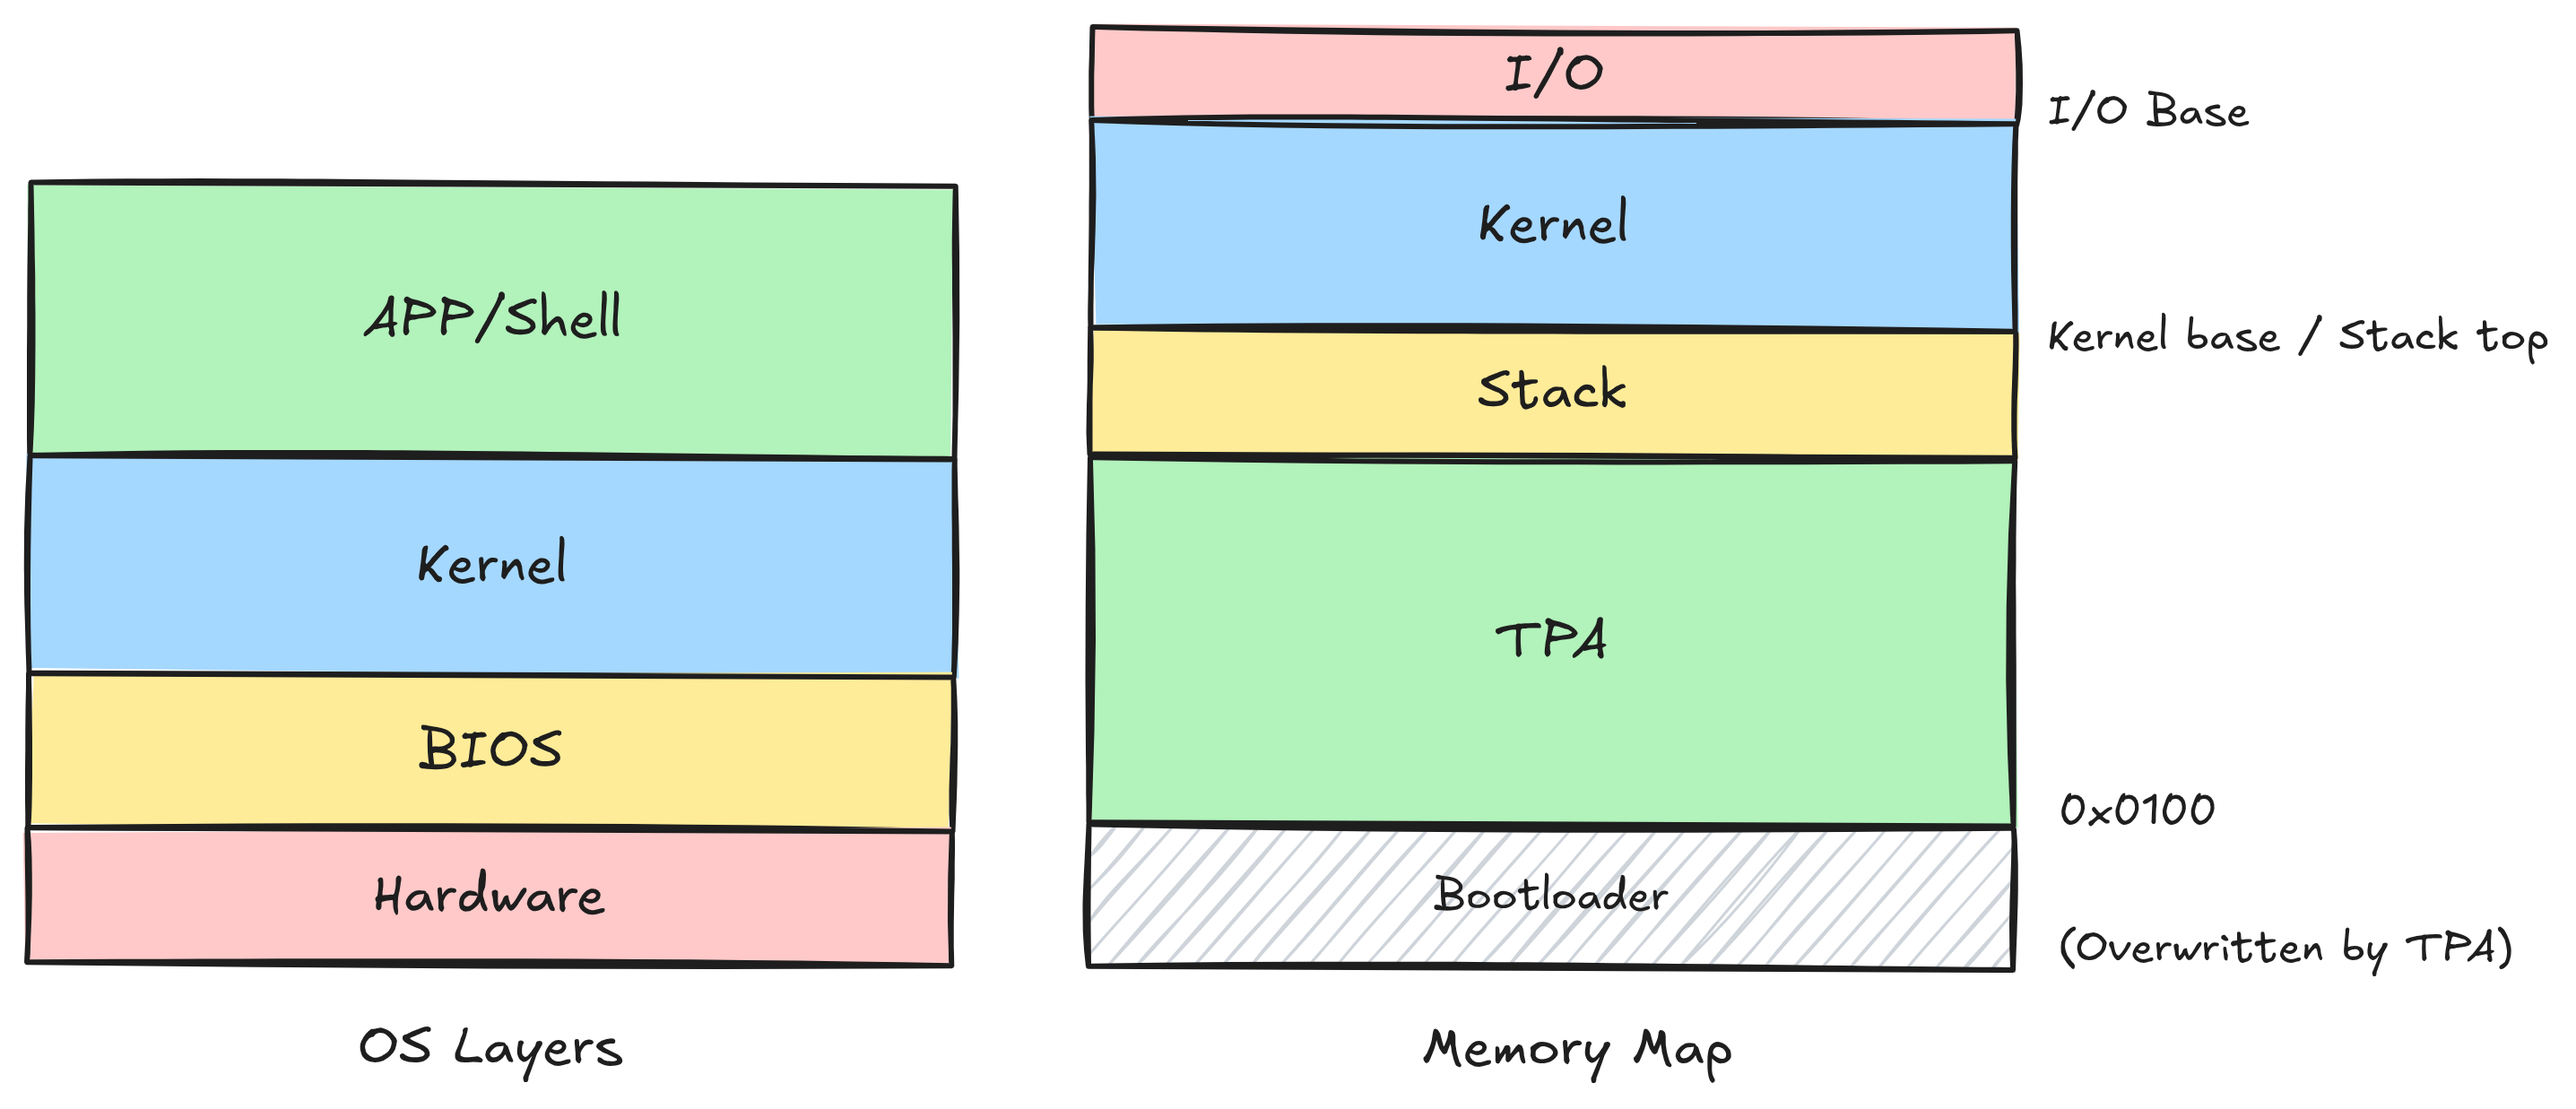
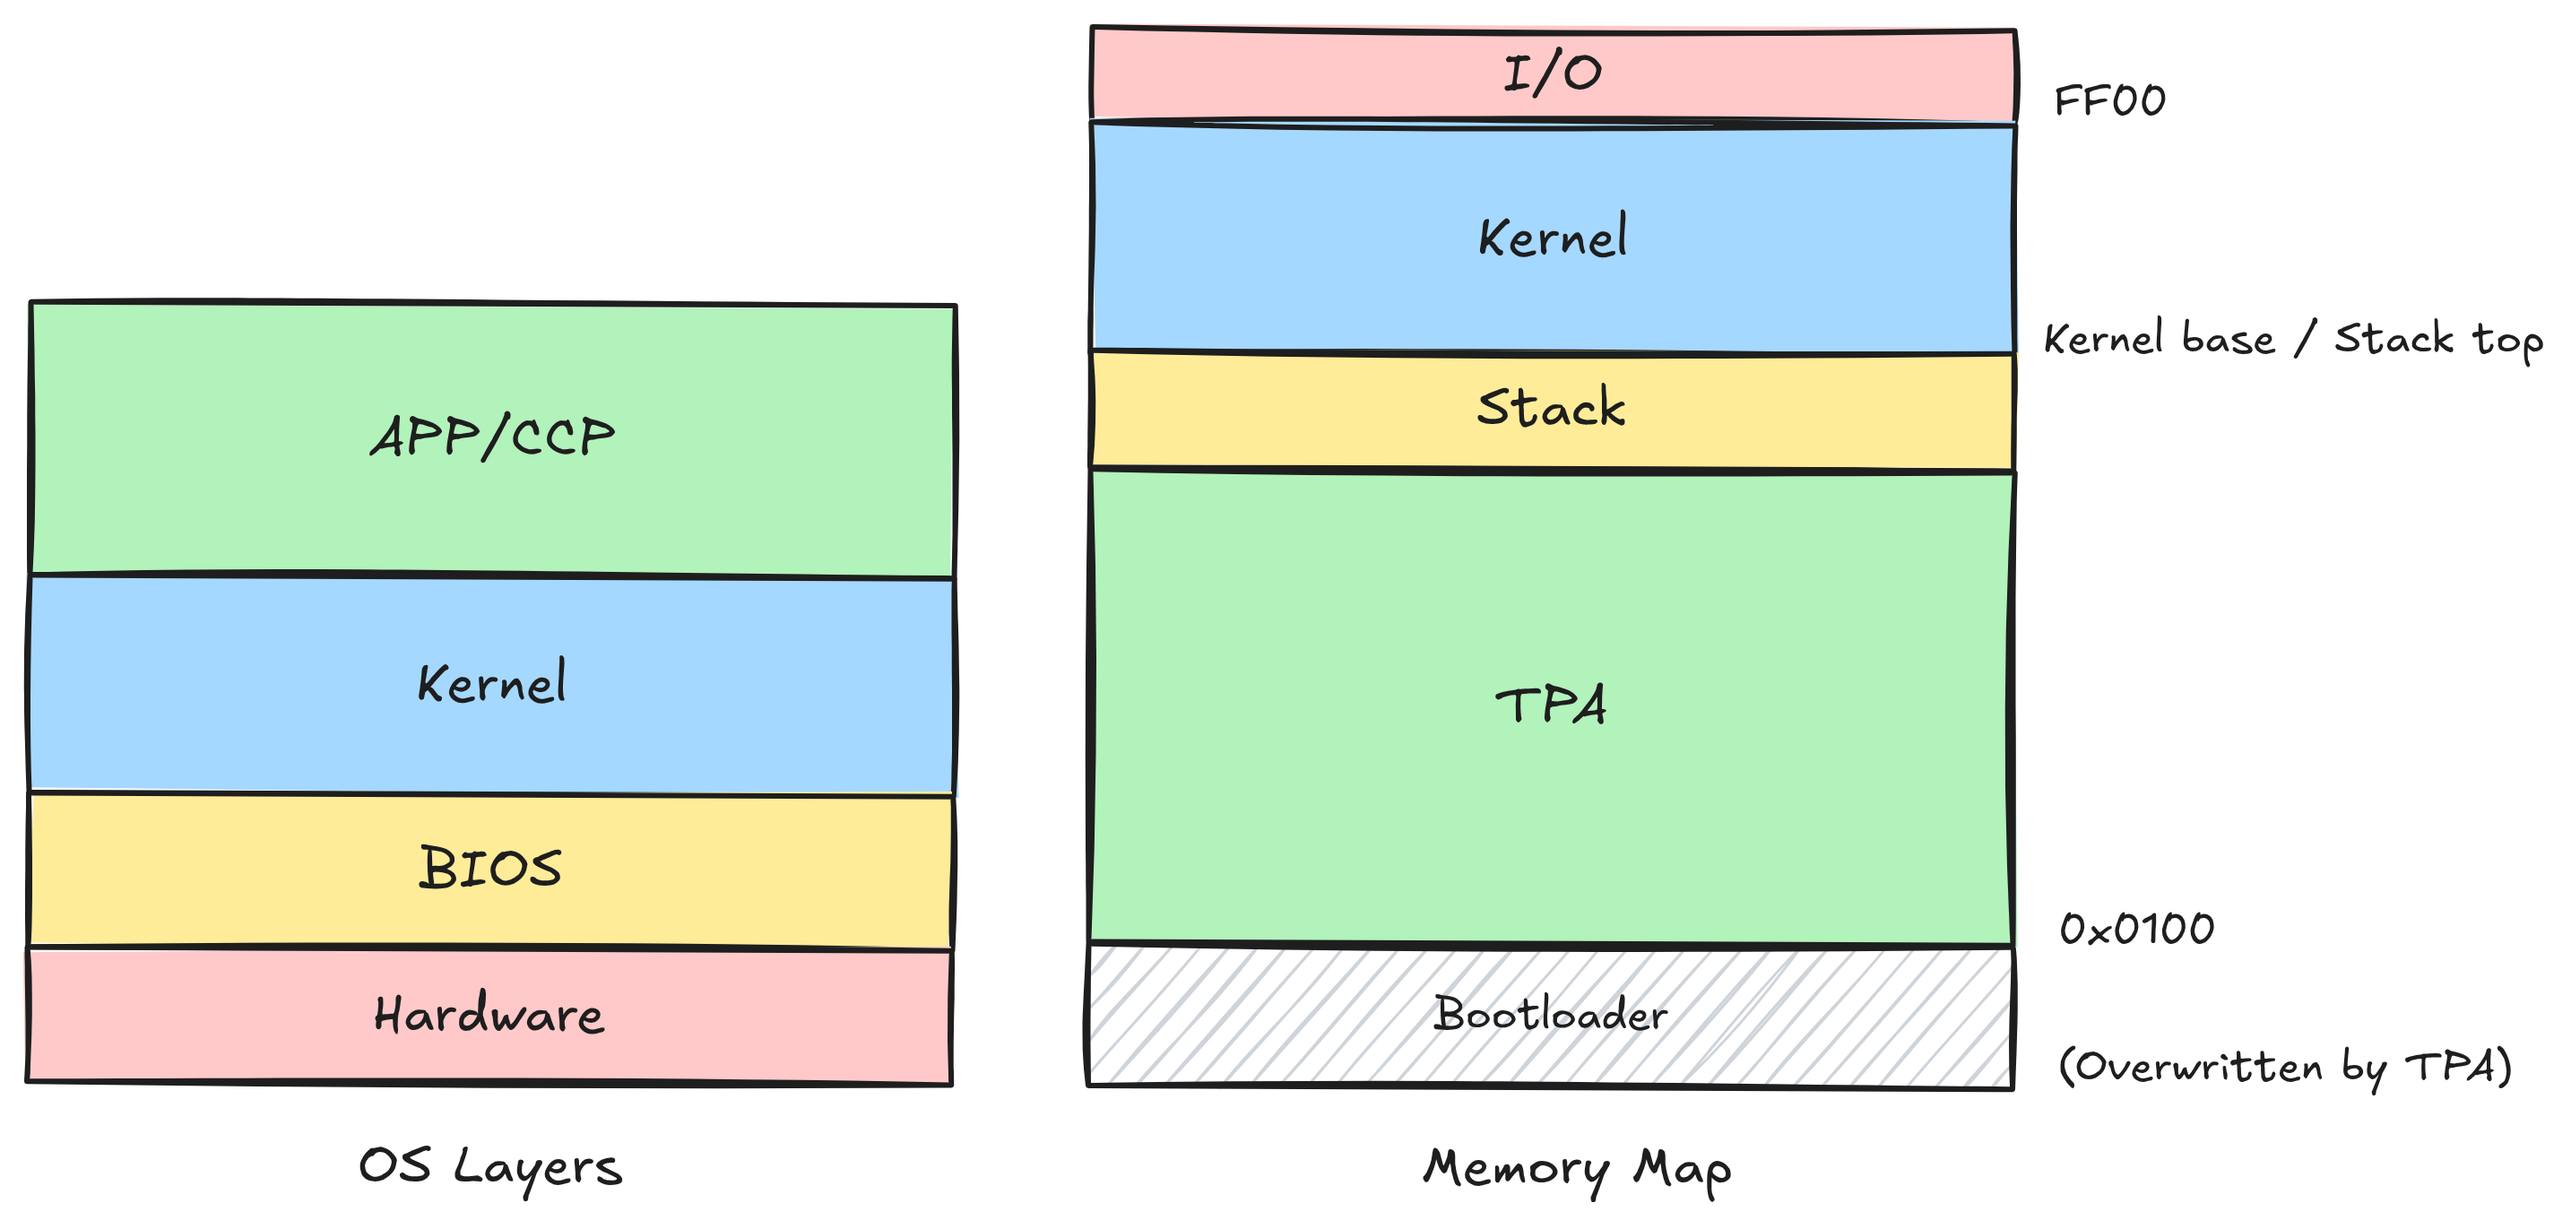
Fix register alginment in CPU panel, help.md refinements

diff --git a/css/style.css b/css/style.css
@@ -196,8 +196,9 @@ html, body {
 .p-mmap .sub-head { gap: 8px; padding-left: 10px; }
 .sub-head .arrow.open { transform: rotate(90deg); }
 .reg-grid { display: grid; grid-template-columns: 10ch 12ch 10ch 12ch; gap: 1px 8px; justify-content: center; }
-.reg-grid .r { color: var(--text); text-align: center; }
-.reg-grid .v { font-family: var(--font-mono); color: var(--l3); text-align: center; }
+.reg-grid .r { color: var(--text); text-align: left; font-family: var(--font-mono); }
+.reg-grid .rid { display: inline-block; min-width: 3ch; }
+.reg-grid .v { font-family: var(--font-mono); color: var(--l3); text-align: left; }
 
 .mem-view { container-type: inline-size; line-height: 1.4; font-family: var(--font-mono); font-size: clamp(8px, 100cqw / 36, 13px); overflow-x: hidden; }
 .mem-view .mem-row { display: flex; white-space: pre; }

diff --git a/js/panels.js b/js/panels.js
@@ -45,8 +45,8 @@ export function initRegGrid() {
     const grid = document.getElementById('cpu-regs');
     let html = '';
     for (let i = 0; i < 32; i += 2) {
-        html += '<span class="r">x' + i + ' (' + REG_NAMES[i] + ')</span><span class="v" id="reg-' + i + '">0x00000000</span>';
-        html += '<span class="r">x' + (i + 1) + ' (' + REG_NAMES[i + 1] + ')</span><span class="v" id="reg-' + (i + 1) + '">0x00000000</span>';
+        html += '<span class="r"><span class="rid">x' + i + '</span> (' + REG_NAMES[i] + ')</span><span class="v" id="reg-' + i + '">0x00000000</span>';
+        html += '<span class="r"><span class="rid">x' + (i + 1) + '</span> (' + REG_NAMES[i + 1] + ')</span><span class="v" id="reg-' + (i + 1) + '">0x00000000</span>';
     }
     grid.innerHTML = html;
     regEls = [];

diff --git a/help.md b/help.md
@@ -22,10 +22,10 @@ FreeCP/M is a single-user, single-tasking operating system — it runs only one 
 
 <br>
 
-- **Memory layout — the workbench**: The Transient Program Area (TPA) runs from `0x0100` up to kernel region. Memory-mapped I/O occupies `0xFF00-0xFFFF` — the wall of dials and switches at the back of the shop.
-- **Syscalls — ringing the bell**: Programs request OS services (open a file, print text, read the keyboard) by calling through a syscall table in kernel memory — like ringing for the supervisor.
+- **Memory layout — The workbench**: The Transient Program Area (TPA) runs from `0x0100` up to kernel region. Memory-mapped I/O occupies `0xFF00-0xFFFF` — the wall of dials and switches at the back of the shop.
+- **Syscalls — Ringing the bell**: Programs request OS services (open a file, print text, read the keyboard) by calling through a syscall table in kernel memory — like ringing for the supervisor.
 - **Environment — Four hooks by the door**: 3 kernel-managed memory slots plus a user slot. Slot 0 holds the syscall table pointer. Slot 1 stores the exit code of the last program. Slot 2 stores the SUBMIT batch offset — the CCP resumes batch from where it left off after each program reload. Slot 3 is free for user programs.
-- **Volumes — the storage room map**: The disk is a grid of fixed-size 1 KB blocks. The four volumes (A:–D:) are pre-provisioned from it — each volume gets an equal share — and all four are mounted at boot. Use `SET X: MT` to mount an unmounted volume, `SET X: EX N` to extend it by N KB (blocks), or `SET X: UM N` to shrink it.
+- **Volumes — The storage room map**: The disk is a grid of fixed-size 1 KB blocks. The four volumes (A:–D:) are pre-provisioned from it — each volume gets an equal share — and all four are mounted at boot. Use `SET X: MT` to mount an unmounted volume, `SET X: EX N` to extend it by N KB (blocks), or `SET X: UM N` to shrink it.
 - **One program at a time**: One program runs at a time. Running a program overwrites the CCP. When it exits, the kernel reloads the CCP from disk.
 
 ## File System
